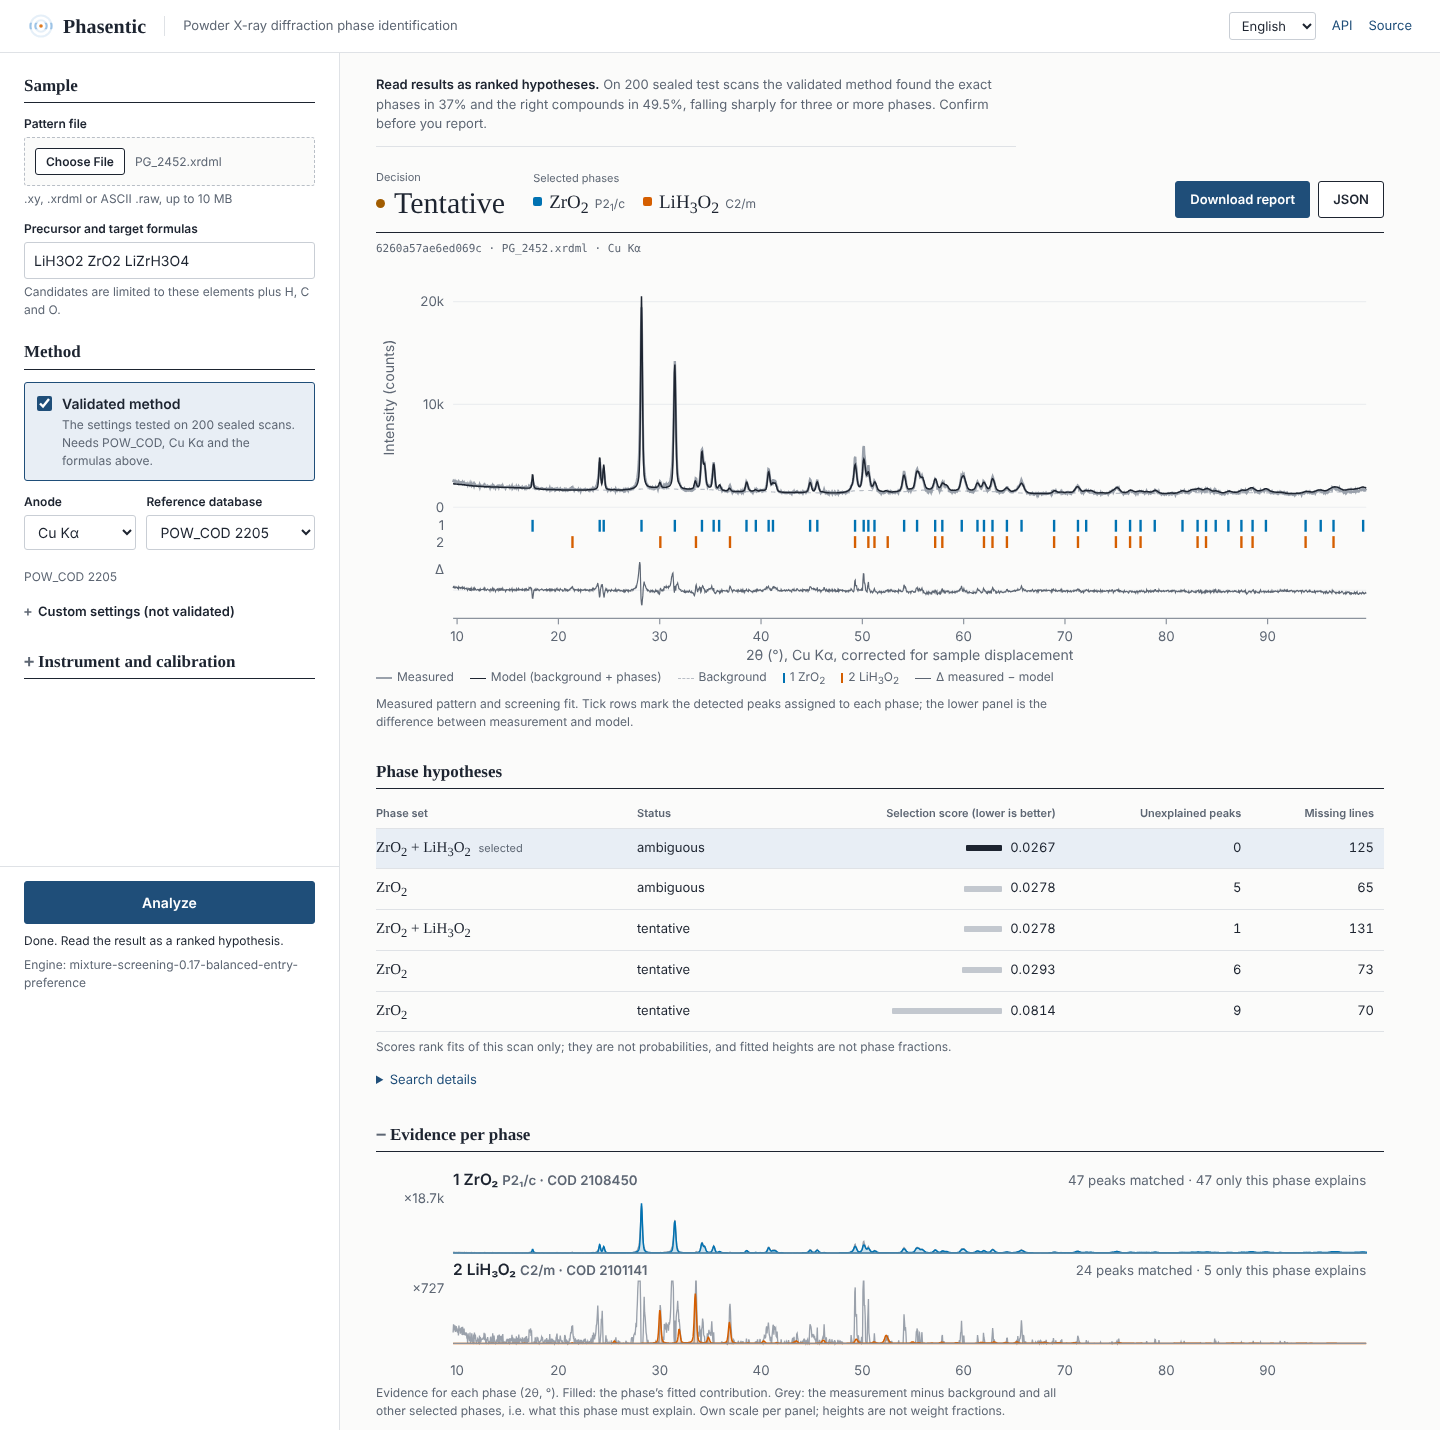
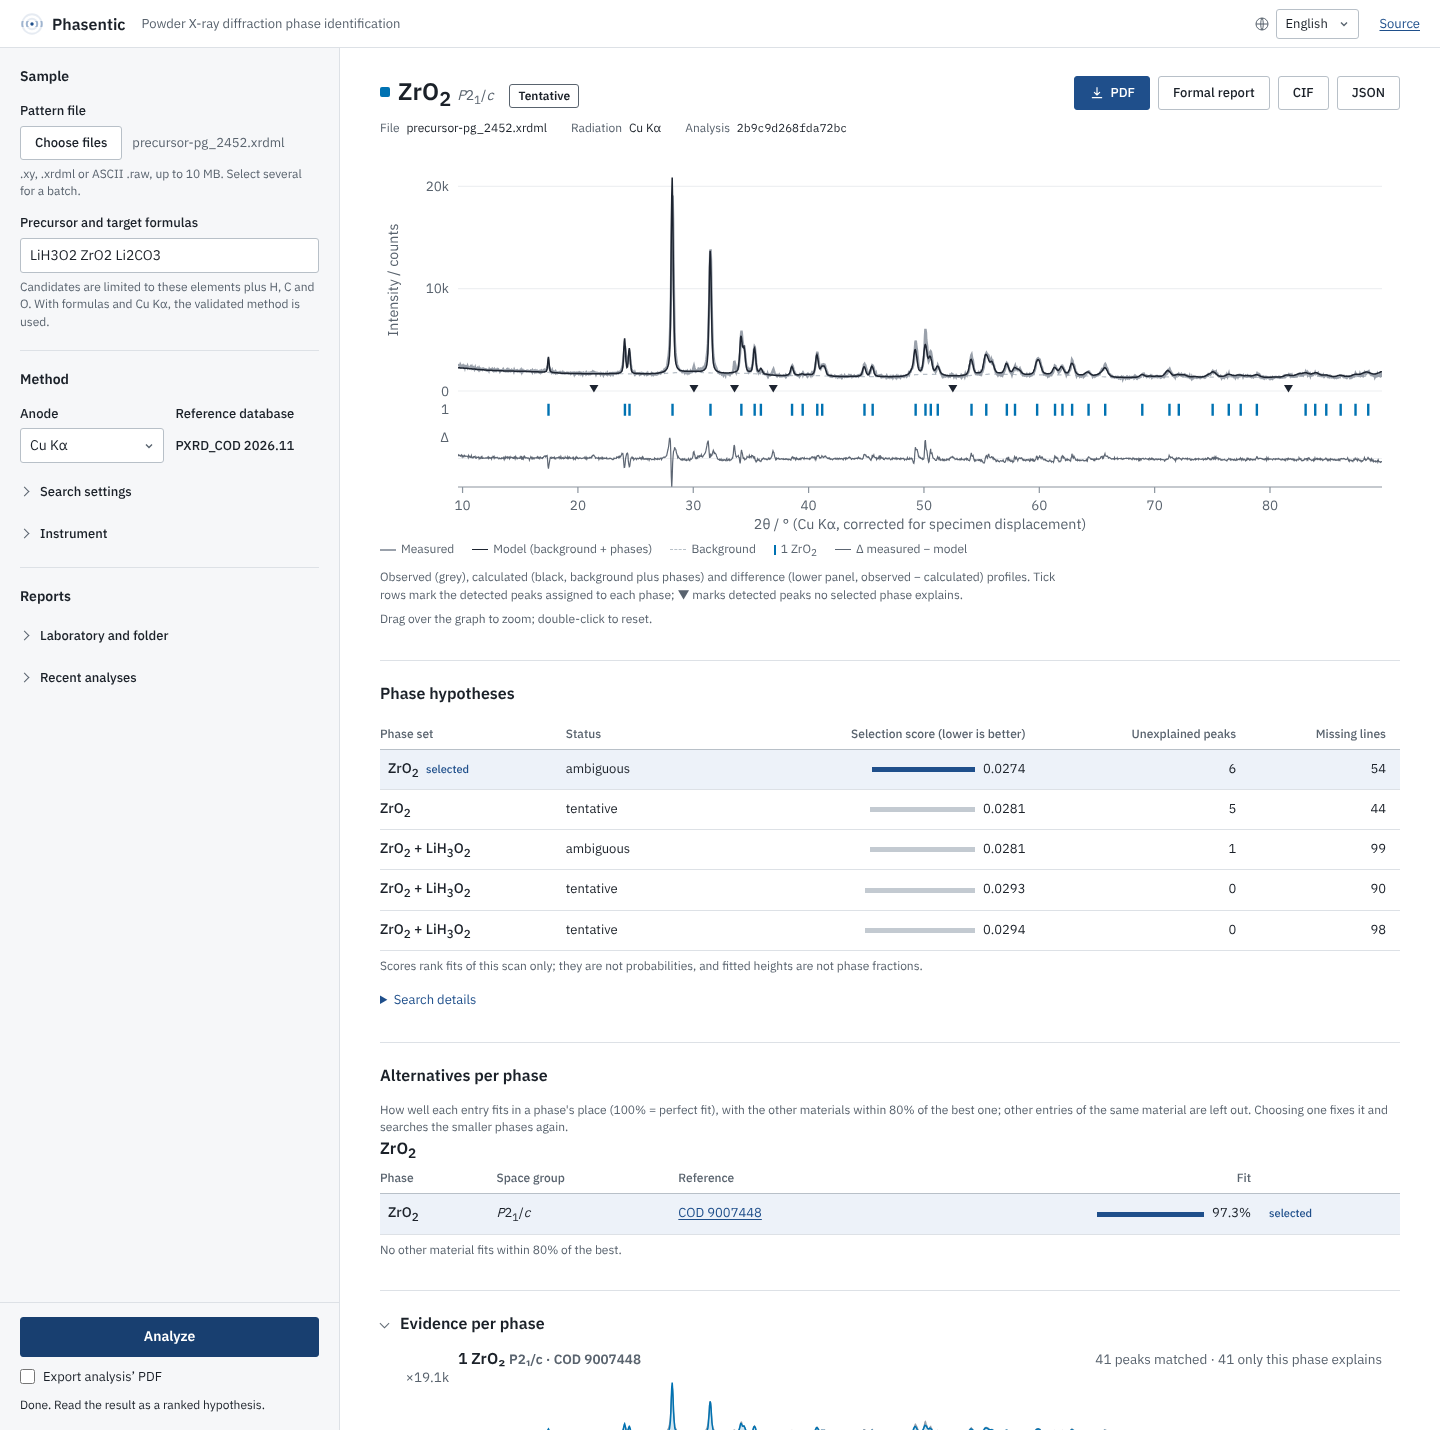
README: new interface screenshot (PG_2452) with an accurate caption; changelog

diff --git a/README/README_ar.md b/README/README_ar.md
@@ -31,9 +31,9 @@
 في تقرير بصيغة JSON. ويعمل محليًا، في المتصفح أو من سطر الأوامر.
 
 <p align="center">
-  <img src="../docs/images/interface.png" alt="واجهة Phasentic: نتيجة مبدئية تضم ZrO2 وLiOH·H2O مع مخطط المطابقة والفرضيات المنافسة" width="900">
+  <img src="../docs/images/interface.png" alt="واجهة Phasentic: نتيجة مبدئية لـ ZrO2 مع مخطط المطابقة والفرضيات المنافسة والبدائل لكل طور" width="900">
   <br>
-  <sub>مسح تطويري من مجموعة بيانات Precursor Genome (PG_2452، Cu Kα)، اختير عشوائيًا. يتعرّف Phasentic على ZrO₂ وLiOH·H₂O؛ أما الوسم المرجعي المستخلَص من تنقيح Rietveld بشري فيتضمن أيضًا Li₂CO₃، الذي يفوته هذا التشغيل. وتظهر الإشارة المتبقية تحت <i>Evidence per phase</i> (الأدلة لكل طور).</sub>
+  <sub>مسح تطويري من مجموعة بيانات Precursor Genome (PG_2452، Cu Kα)، اختير عشوائيًا. يختار Phasentic الطور ZrO₂. ويتضمن الوسم المرجعي المنقَّح يدويًا طورين ثانويين آخرين: LiOH·H₂O الذي يظهر فقط ضمن الفرضيات المنافسة (ZrO₂ + LiH₃O₂)، وLi₂CO₃ الذي يفوته هذا التشغيل.</sub>
 </p>
 
 <a name="how-accurate-is-it"></a>

diff --git a/README/README_cn.md b/README/README_cn.md
@@ -28,9 +28,9 @@
 Phasentic 读取粉末XRD扫描数据（`.xy`、`.xrdml` 或 ASCII `.raw`），检测衍射峰，检索基于 [Crystallography Open Database](https://www.crystallography.net/cod/) 构建的参考数据库（或 CNR 的 [POW_COD](https://www.ba.ic.cnr.it/softwareic/qualx/)），并对最多五个物相的混合物进行拟合。它给出经排序的物相假设，并将全部设置、哈希值和警告记录在 JSON 报告中。软件在本地运行，可通过浏览器或命令行使用。
 
 <p align="center">
-  <img src="../docs/images/interface.png" alt="Phasentic 界面：ZrO2 与 LiOH·H2O 的暂定结果，附拟合图和竞争假设" width="900">
+  <img src="../docs/images/interface.png" alt="Phasentic 界面：ZrO2 的暂定结果，附拟合图、竞争假设和各物相备选" width="900">
   <br>
-  <sub>随机选取的一条开发集扫描，来自 Precursor Genome 数据集（PG_2452，Cu Kα）。Phasentic 识别出 ZrO₂ 和 LiOH·H₂O；经人工 Rietveld 精修确定的标注中还含有 Li₂CO₃，本次运行未能检出。残余信号可在 <i>Evidence per phase</i>（各物相证据）中看到。</sub>
+  <sub>随机选取的一条开发集扫描，来自 Precursor Genome 数据集（PG_2452，Cu Kα）。Phasentic 选定 ZrO₂。经人工精修的标注中还含有两个次要物相：LiOH·H₂O 仅出现在竞争假设中（ZrO₂ + LiH₃O₂），Li₂CO₃ 则未被本次运行检出。</sub>
 </p>
 
 <a name="how-accurate-is-it"></a>

diff --git a/README/README_fr.md b/README/README_fr.md
@@ -34,9 +34,9 @@ classées, et consigne dans un rapport JSON chaque paramètre, chaque empreinte
 ligne de commande.
 
 <p align="center">
-  <img src="../docs/images/interface.png" alt="Interface de Phasentic : un résultat provisoire avec ZrO2 et LiOH·H2O, le graphique d’ajustement et les hypothèses concurrentes" width="900">
+  <img src="../docs/images/interface.png" alt="Interface de Phasentic : un résultat provisoire avec ZrO2, le graphique d’ajustement, les hypothèses concurrentes et les alternatives par phase" width="900">
   <br>
-  <sub>Un diffractogramme de développement du jeu de données Precursor Genome (PG_2452, Cu Kα), tiré au hasard. Phasentic trouve ZrO₂ et LiOH·H₂O ; l’étiquette affinée par un expert humain contient aussi Li₂CO₃, que cette analyse ne détecte pas. Le signal résiduel est visible sous <i>Evidence per phase</i> (éléments probants par phase).</sub>
+  <sub>Un diffractogramme de développement du jeu de données Precursor Genome (PG_2452, Cu Kα), tiré au hasard. Phasentic retient ZrO₂. L’étiquette affinée par un expert contient aussi deux phases minoritaires : LiOH·H₂O, qui n’apparaît que dans les hypothèses concurrentes (ZrO₂ + LiH₃O₂), et Li₂CO₃, que cette analyse ne détecte pas.</sub>
 </p>
 
 <a name="how-accurate-is-it"></a>

diff --git a/README/README_es.md b/README/README_es.md
@@ -33,9 +33,9 @@ registra en un informe JSON todos los parámetros, hashes y advertencias. Se
 ejecuta en local, desde el navegador o desde la línea de comandos.
 
 <p align="center">
-  <img src="../docs/images/interface.png" alt="Interfaz de Phasentic: un resultado provisional de ZrO2 y LiOH·H2O con la gráfica del ajuste y las hipótesis alternativas" width="900">
+  <img src="../docs/images/interface.png" alt="Interfaz de Phasentic: un resultado provisional de ZrO2 con la gráfica del ajuste, las hipótesis alternativas y las alternativas por fase" width="900">
   <br>
-  <sub>Un difractograma de desarrollo del conjunto de datos Precursor Genome (PG_2452, Cu Kα), elegido al azar. Phasentic encuentra ZrO₂ y LiOH·H₂O; la etiqueta refinada manualmente también incluye Li₂CO₃, que esta ejecución no detecta. La señal residual puede verse en <i>Evidencia por fase</i>.</sub>
+  <sub>Un difractograma de desarrollo del conjunto de datos Precursor Genome (PG_2452, Cu Kα), elegido al azar. Phasentic selecciona ZrO₂. La etiqueta refinada manualmente contiene además dos fases minoritarias: LiOH·H₂O, que aparece solo en las hipótesis alternativas (ZrO₂ + LiH₃O₂), y Li₂CO₃, que esta ejecución no detecta.</sub>
 </p>
 
 <a name="how-accurate-is-it"></a>

diff --git a/README/README_de.md b/README/README_de.md
@@ -34,9 +34,9 @@ JSON-Bericht festgehalten. Phasentic läuft lokal, im Browser oder auf der
 Kommandozeile.
 
 <p align="center">
-  <img src="../docs/images/interface.png" alt="Phasentic-Oberfläche: ein vorläufiges Ergebnis aus ZrO2 und LiOH·H2O mit dem Anpassungsplot und den konkurrierenden Hypothesen" width="900">
+  <img src="../docs/images/interface.png" alt="Phasentic-Oberfläche: ein vorläufiges ZrO2-Ergebnis mit dem Anpassungsplot, den konkurrierenden Hypothesen und den Alternativen je Phase" width="900">
   <br>
-  <sub>Ein zufällig ausgewählter Entwicklungsscan aus dem Datensatz Precursor Genome (PG_2452, Cu Kα). Phasentic findet ZrO₂ und LiOH·H₂O; die manuell verfeinerte Referenzzuordnung enthält zusätzlich Li₂CO₃, das in diesem Lauf übersehen wird. Das verbleibende Signal ist unter <i>Evidence per phase</i> (Belege je Phase) sichtbar.</sub>
+  <sub>Ein zufällig ausgewählter Entwicklungsscan aus dem Datensatz Precursor Genome (PG_2452, Cu Kα). Phasentic wählt ZrO₂. Die manuell verfeinerte Referenzzuordnung enthält zusätzlich zwei Nebenphasen: LiOH·H₂O, das nur in den konkurrierenden Hypothesen erscheint (ZrO₂ + LiH₃O₂), und Li₂CO₃, das dieser Lauf übersieht.</sub>
 </p>
 
 <a name="how-accurate-is-it"></a>

diff --git a/README.md b/README.md
@@ -33,9 +33,9 @@ phase hypotheses with every setting, hash and warning recorded in a JSON
 report. It runs locally, in the browser or from the command line.
 
 <p align="center">
-  <img src="docs/images/interface.png" alt="Phasentic interface: a tentative result of ZrO2 and LiOH·H2O with the fit plot and the competing hypotheses" width="900">
+  <img src="docs/images/interface.png" alt="Phasentic interface: a tentative ZrO2 result with the fit plot, the competing hypotheses and the alternatives per phase" width="900">
   <br>
-  <sub>A development scan from the Precursor Genome dataset (PG_2452, Cu Kα), picked at random. Phasentic finds ZrO₂ and LiOH·H₂O; the human-refined label also contains Li₂CO₃, which this run misses. The leftover signal is visible under <i>Evidence per phase</i>.</sub>
+  <sub>A development scan from the Precursor Genome dataset (PG_2452, Cu Kα), picked at random. Phasentic selects ZrO₂. The human-refined label also contains two minor phases: LiOH·H₂O, which appears only in the competing hypotheses (ZrO₂ + LiH₃O₂), and Li₂CO₃, which this run misses.</sub>
 </p>
 
 ## How accurate is it

diff --git a/CHANGELOG.md b/CHANGELOG.md
@@ -7,6 +7,18 @@ All notable changes are listed here. The format follows
 ## [Unreleased]
 
 ### Changed
+- New interface: neutral greys with one blue accent, IBM Plex type bundled for
+  offline use, a drop target for scans, flat sections instead of cards, and an
+  English file picker that follows the language menu.
+- The validated method is used automatically when formulas are given with Cu Kα
+  (no checkbox); peak tolerance and maximum phases stay editable.
+- Reports include the typed formulas, instrument vendor, model and goniometer
+  radius, the laboratory and the report folder.
+- Windows install: uv's installer, `uv tool install`, then `phasentic setup`
+  (install.ps1 removed after Defender flagged its command line).
+
+### Removed
+- The demo reference subset; the installed reference database is the only source.
 - Reference database PXRD_COD 2026.11 (new Zenodo version): 23,611 Materials
   Project structures of experimentally known phases missing from COD, and
   hydrogen restored in 9,437 COD formulas. Published on Zenodo,
